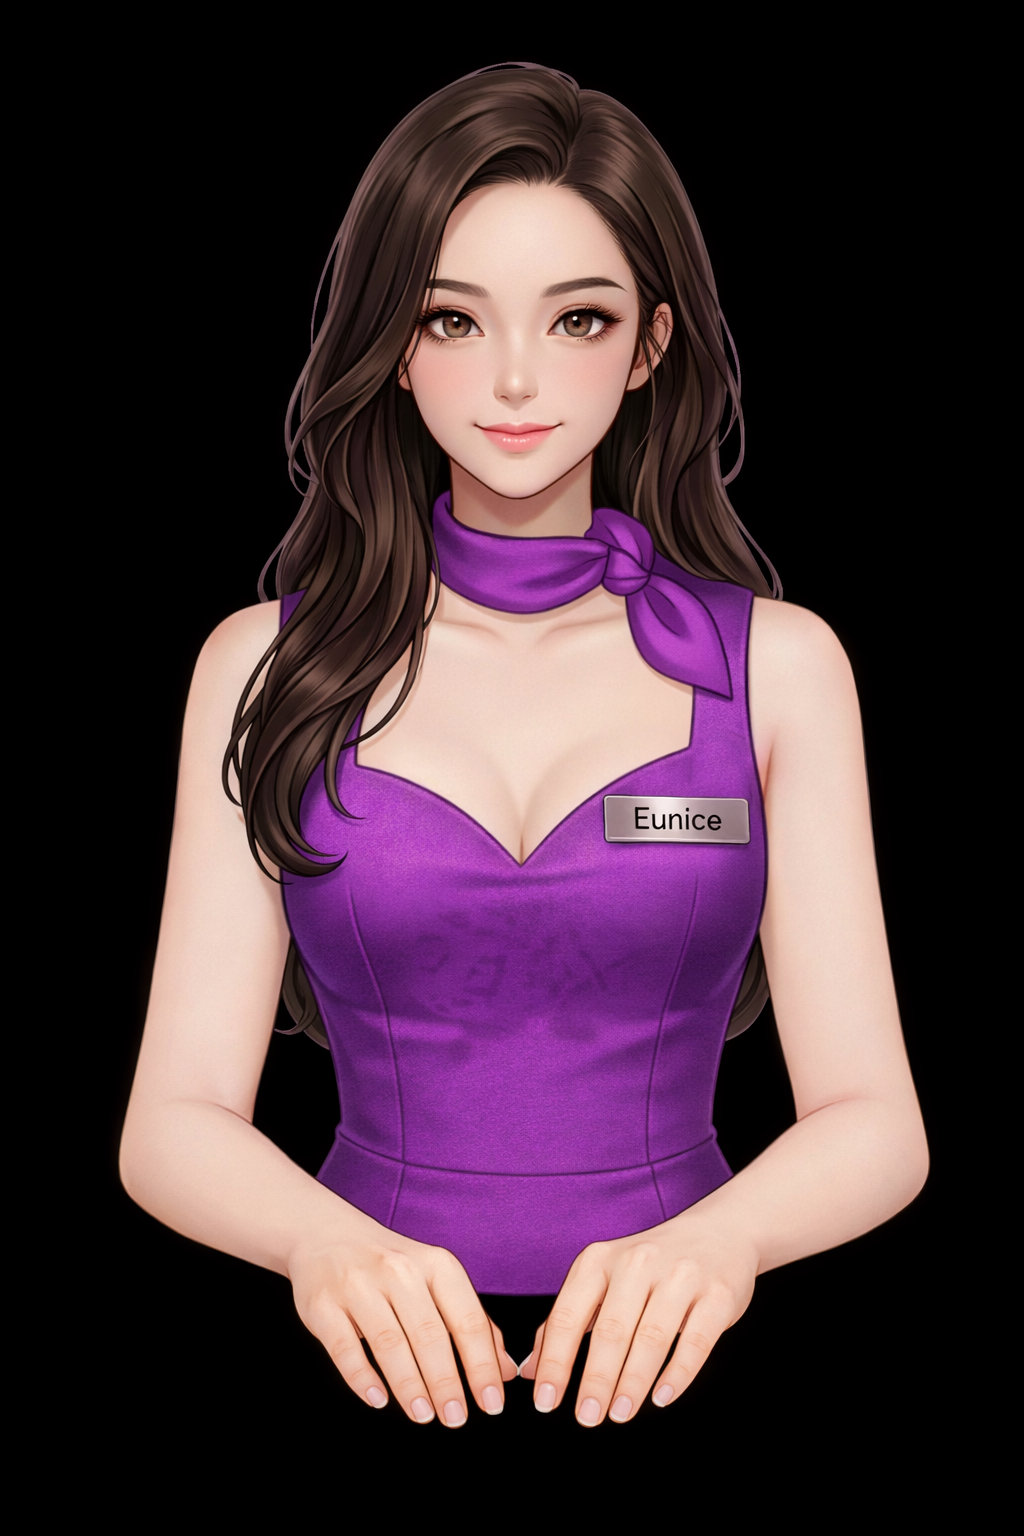
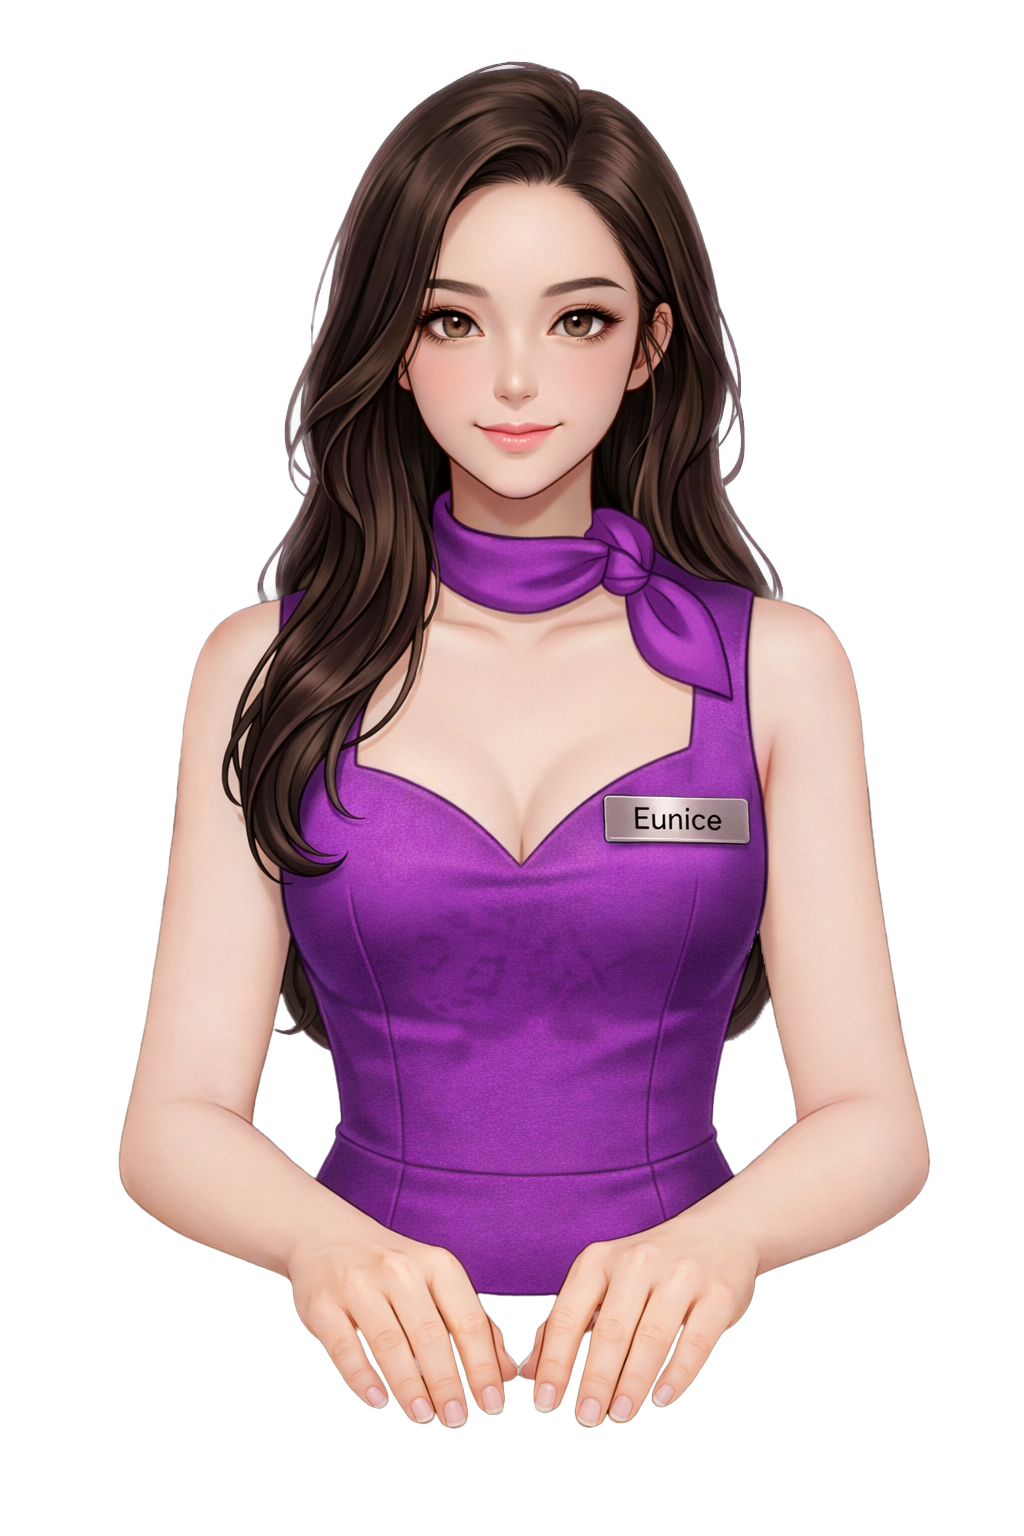
Refresh dealer artwork and placement

diff --git a/frontend/components/game/PokerTable.tsx b/frontend/components/game/PokerTable.tsx
@@ -29,7 +29,7 @@ const TABLE_W = 706
 const TABLE_H = 338
 const TABLE_LEFT = Math.round(OCX - TABLE_W / 2)
 const TABLE_TOP = 136
-const DEALER_TOP = 0
+const DEALER_TOP = 6
 
 const PAD_X = 16
 const PAD_Y = 16
